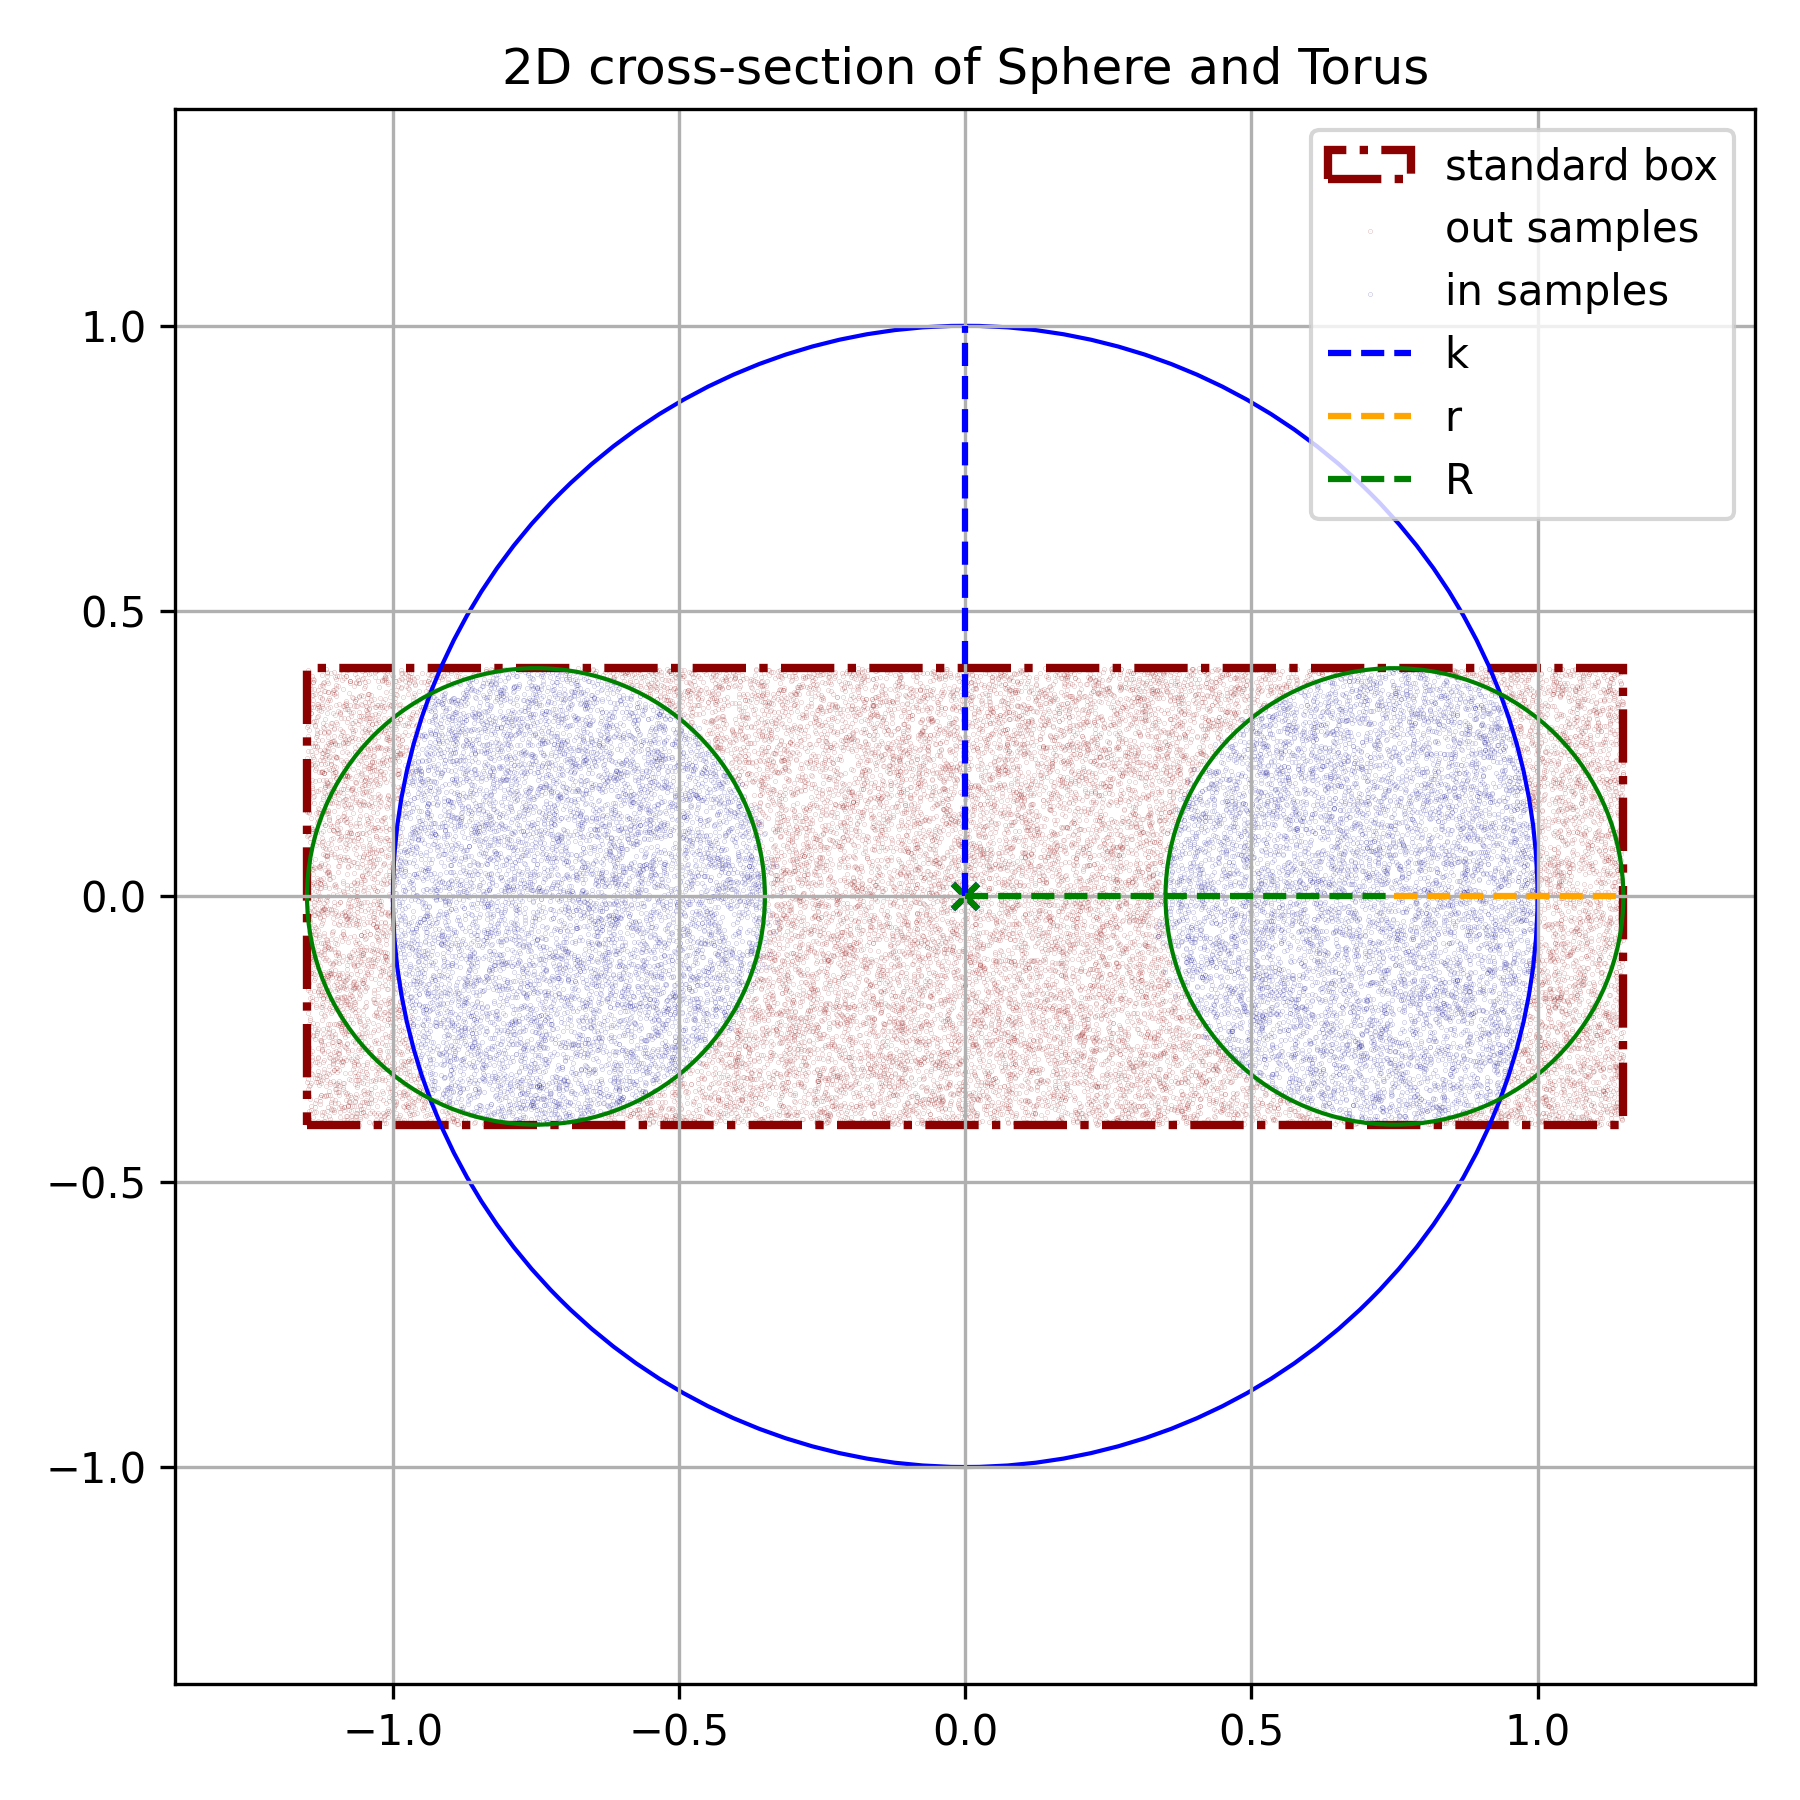
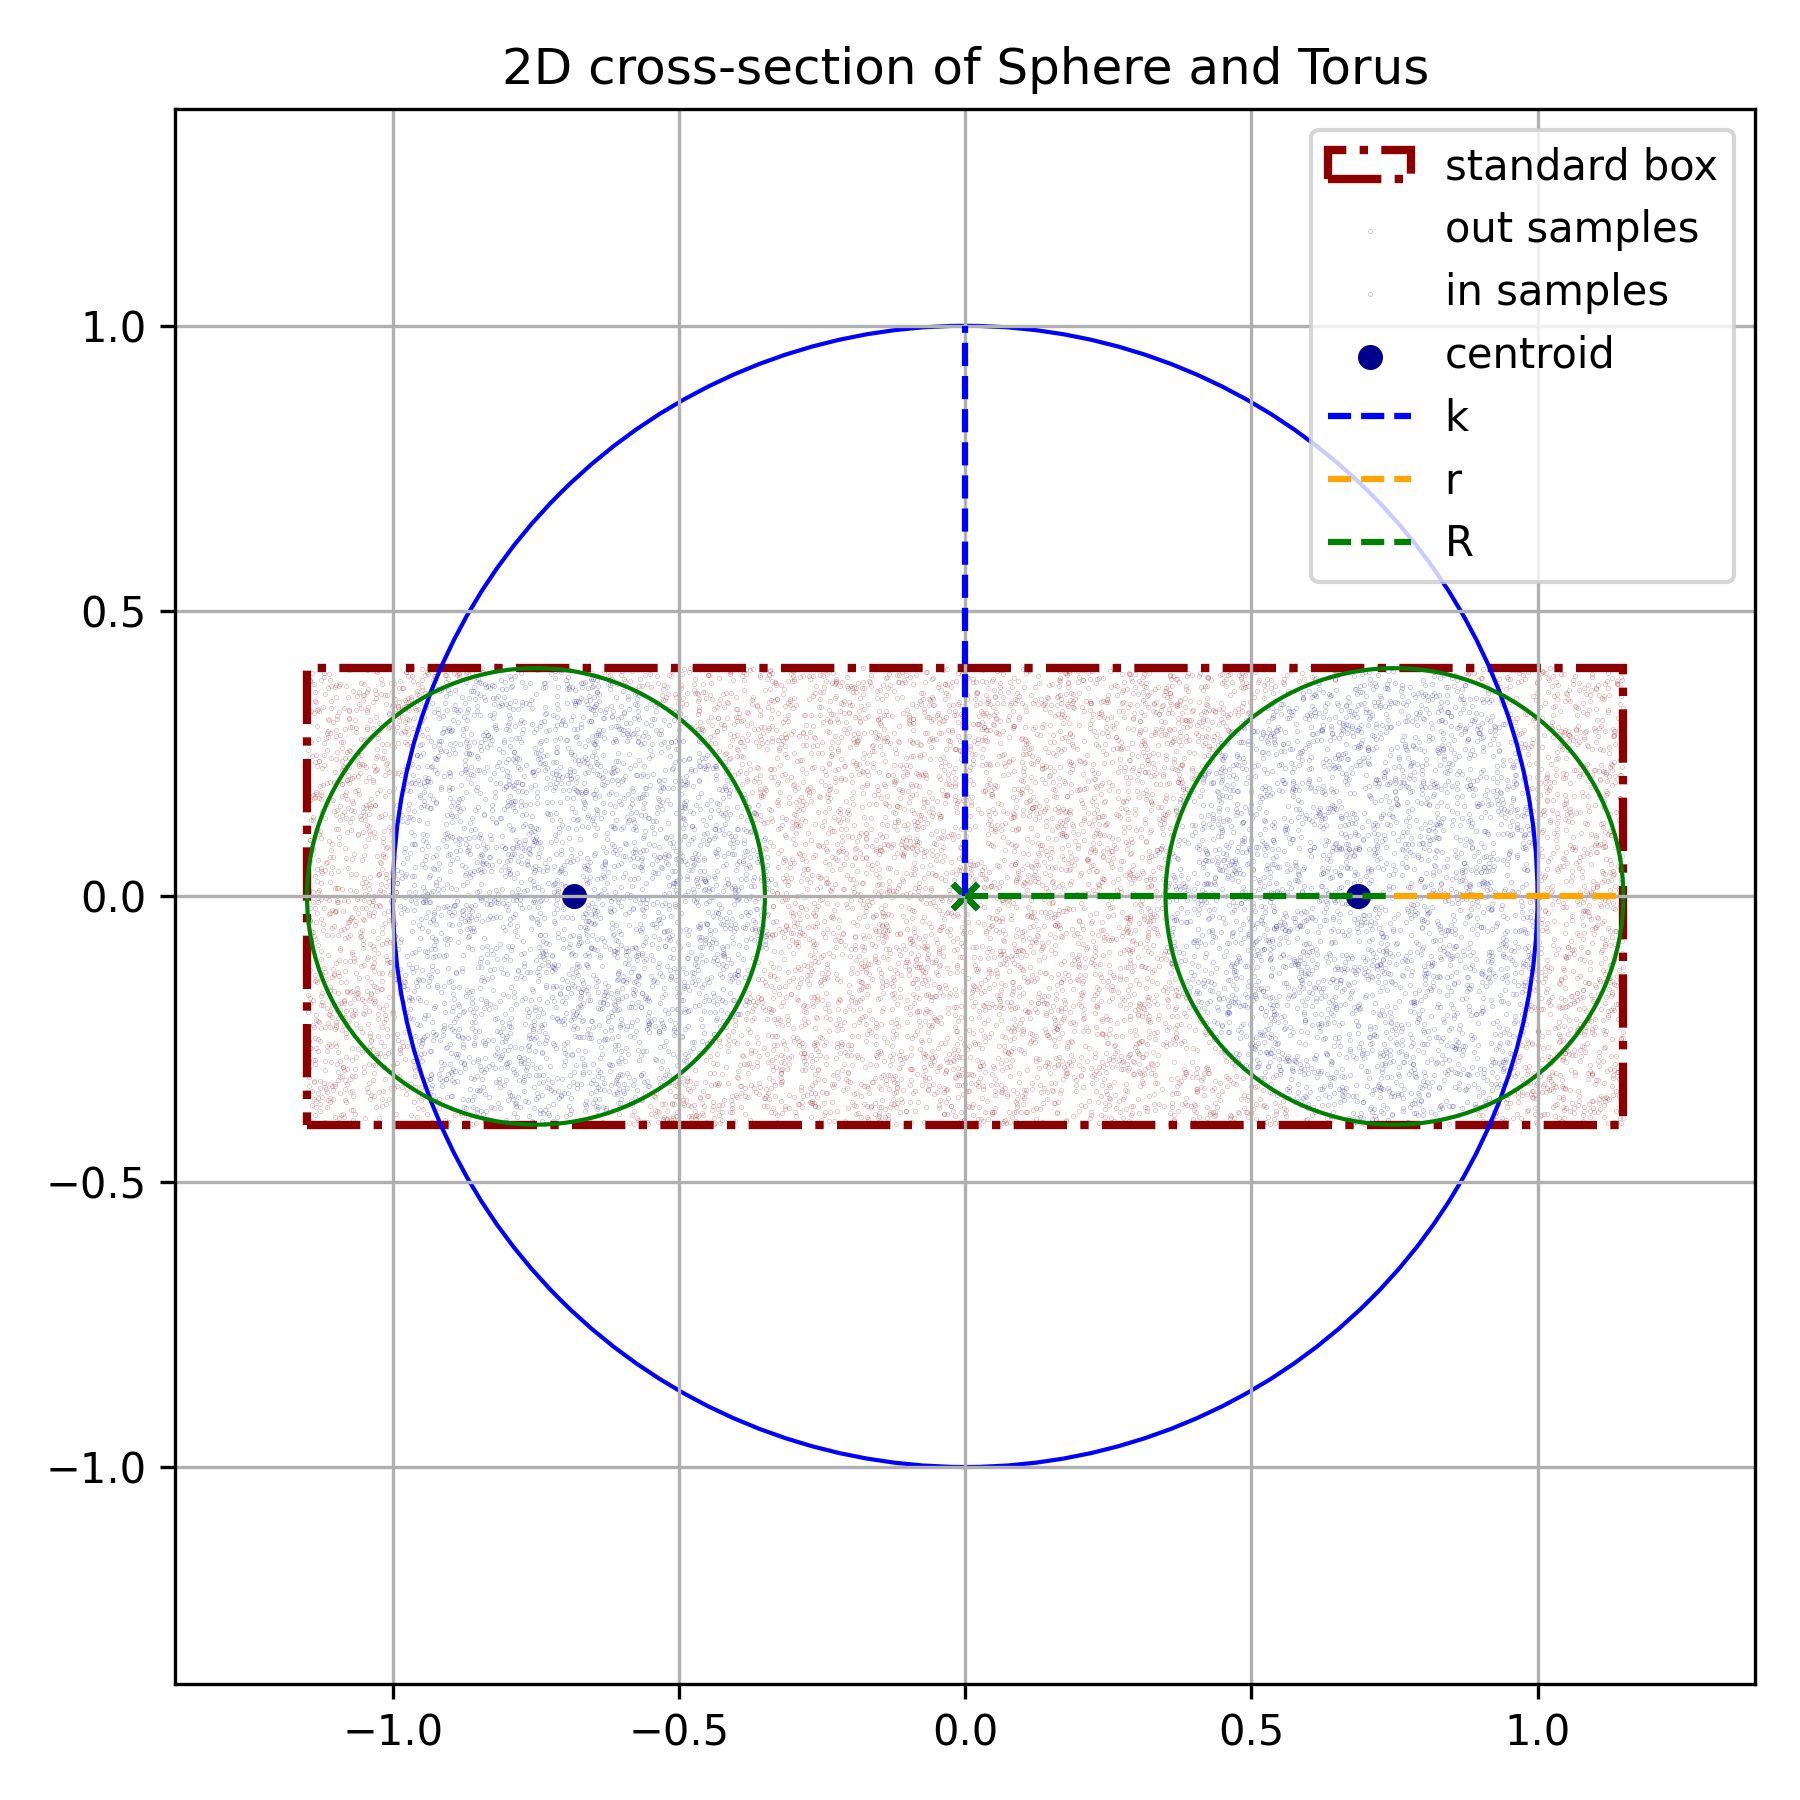
centroid fix

diff --git a/main.py b/main.py
@@ -13,7 +13,7 @@ def box_volume(box: list) -> float:
 
 
 def box_standard(r: float, R: float, origin: list[float] = [0.0, 0.0, 0.0]) -> list:
-    dy = r + origin[1]
+    dy = R + r + origin[1]
     dx = R + r + origin[0]
     dz = r + origin[2]
 
@@ -147,27 +147,16 @@ def surface_to_volume(R: float, surface_area: float) -> float:
 
 
 # TODO: to change with ndarray
-def find_centroid_2d(mc_samples: list, mc_in_mask: list) -> list:
+def find_centroid(in_pts: np.ndarray) -> np.ndarray:
     """
     Takes all Monte Carlo sample points and the in-mask of those points to find the centroid of the surface area slice
     """
+    # split in positive x and y
+    centroid_x_plus = np.mean(in_pts[in_pts[:, 0] >= 0][:, 0])
+    centroid_x_minus = np.mean(in_pts[in_pts[:, 0] < 0][:, 0])
+    centroid_y = np.mean(in_pts[:, 1])
 
-    # mc_in_mask contains both sides of the intersection
-    # use only points with positive x
-
-    in_samples = np.array(
-        [
-            mc_samples[i]
-            for i in range(len(mc_samples))
-            if mc_in_mask[i][0] and mc_in_mask[i][1] and mc_samples[i][0] >= 0
-        ]
-    )
-
-    # the centroid is the mean of all points
-    centroid_x = np.mean(in_samples[:, 0])
-    centroid_y = np.mean(in_samples[:, 1])
-
-    return [centroid_x, centroid_y]
+    return [[centroid_x_plus, centroid_y], [centroid_x_minus, centroid_y]]
 
 
 # TODO: bottle neck
@@ -198,6 +187,7 @@ def plot_2d(
     origin_t: list = [0, 0],
     pts: np.ndarray = None,
     pts_in: np.ndarray = None,
+    centroid: np.ndarray = None,
     save_path: str = "",
     show: bool = False,
 ) -> plt.Axes:
@@ -240,12 +230,13 @@ def plot_2d(
     )
     torus_r = plt.Circle((origin_t[0] - R, origin_t[1]), r, color="green", fill=False)
 
-    # box
+    # box (only x and z)
     box = box_standard(r, R)
+
     rect = mpatches.Rectangle(
-        (box[0][0], box[1][0]),
+        (box[0][0], box[2][0]),
         box[0][1] - box[0][0],
-        box[1][1] - box[1][0],
+        box[2][1] - box[2][0],
         fill=False,
         ls="-.",
         color="darkred",
@@ -255,7 +246,7 @@ def plot_2d(
     ax.add_patch(rect)
 
     # points from monte carlo sim
-    s = 0.05
+    s = 0.1
     if pts is not None:
         if pts_in is not None:
             # in and out samples
@@ -308,6 +299,18 @@ def plot_2d(
                 alpha=0.3,
                 label="out samples",
             )
+
+    if centroid is not None:
+        plt.scatter(
+            centroid[0][0],
+            centroid[0][1],
+            color="darkblue",
+            marker="o",
+            s=25,
+            label="centroid",
+        )
+
+        plt.scatter(centroid[1][0], centroid[1][1], color="darkblue", marker="o", s=25)
 
     # plot
     ax.add_artist(sphere)
@@ -458,4 +461,10 @@ if __name__ == "__main__":
     # --- 3D plot --- (quite slow)
     # plot_3d(k, r, R, pts=pts, pts_in=pts_in)
     # --- 2D plot ---
-    plot_2d(k, r, R, pts=pts, pts_in=pts_in, save_path="img/2d.png")
+    delta = 0.35 * r
+    slice_y = np.abs(pts[:, 1]) < delta
+    pts_in_2d = pts_in & slice_y
+    centroid_2d = find_centroid(pts[pts_in_2d])
+    plot_2d(
+        k, r, R, pts=pts, pts_in=pts_in, centroid=centroid_2d, save_path="img/2d.png"
+    )
